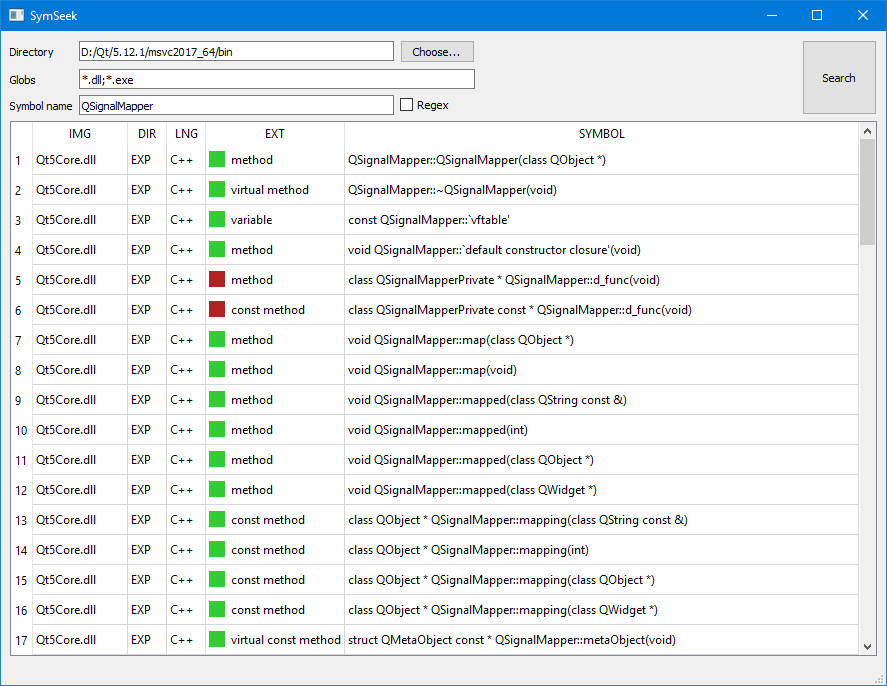
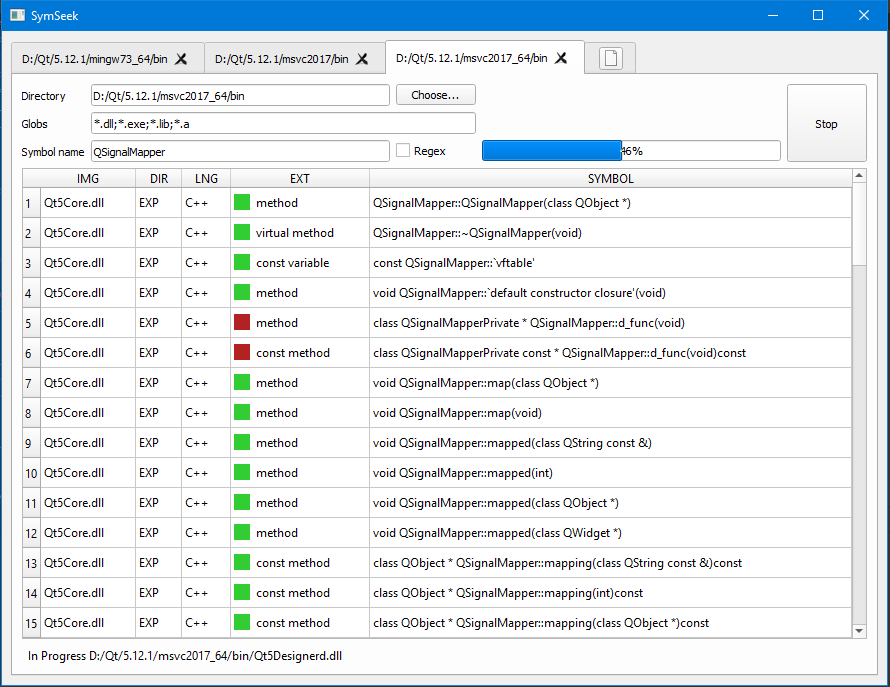
#3 Change workspaces' titles to mimic the directory being processed
Also update the screenshot.

Changed region(s): [[0.0, 0.0, 1.0, 1.0], [0.0, 0.0, 0.0913, 0.0306], [0.6697, 0.0612, 0.7001, 0.1224]]

diff --git a/SymSeek/src/MainWindow.cpp b/SymSeek/src/MainWindow.cpp
@@ -1,7 +1,6 @@
 #include "MainWindow.h"
 
 #include <QtCore/QSettings>
-
 #include <QtWidgets/QStyle>
 #include <QtWidgets/QTabBar>
 #include <QtWidgets/QToolButton>
@@ -45,12 +44,24 @@ MainWindow::~MainWindow()
 
 int MainWindow::addWorkspace()
 {
-    QPointer<Workspace> newTab{ new Workspace(m_ui->tabWidget) };
+    QPointer<Workspace> newWorkspace{ new Workspace(m_ui->tabWidget) };
     // Always insert before the last (plus) tab
     int index = m_ui->tabWidget->count() - 1;
     m_ui->tabWidget->insertTab(index,
-            newTab.data(), QStringLiteral("Workspace ") + QString::number(index + 1));
-    newTab->loadSettings(index);
+            newWorkspace.data(), QStringLiteral("Workspace ") + QString::number(index + 1));
+
+    // Update tab titles
+    connect(newWorkspace, &Workspace::titleChanged, /*context=*/this,
+        [this, newWorkspace](QString newTitle) {
+            // Index may have changed as the tabs are movable, so obtaining it again
+            int index = m_ui->tabWidget->indexOf(GUARD(newWorkspace));
+            Q_ASSERT(index != -1);
+            m_ui->tabWidget->setTabText(index, newTitle);
+            m_ui->tabWidget->setTabToolTip(index, newTitle);
+        }
+    );
+
+    newWorkspace->loadSettings(index);
     return index;
 }
 

diff --git a/SymSeek/src/Workspace.cpp b/SymSeek/src/Workspace.cpp
@@ -125,6 +125,7 @@ Workspace::Workspace(QWidget *parent)
     connect(m_ui->chbRegex, &QCheckBox::stateChanged, [this](int state) {
         m_ui->leSymbolName->setValidator(state == Qt::Checked ? m_regexValidator : nullptr);
     });
+    connect(m_ui->leDirectory, &QLineEdit::textChanged, this, &Workspace::titleChanged);
 }
 
 static void flashWidget(QWidget * widget)
@@ -248,7 +249,7 @@ void Workspace::loadSettings(uint index)
     QSettings settings;
     settings.beginGroup(guiGroupPrefix + QString::number(index));
 
-    m_ui->leDirectory->setText(settings.value(directorySetting).toString());
+    m_ui->leDirectory->setText(settings.value(directorySetting, QDir::currentPath()).toString());
     m_ui->leGlobs->setText(settings.value(globsSetting,
             QString{
 // TODO Get these globs from the available image parsers

diff --git a/SymSeek/src/Workspace.h b/SymSeek/src/Workspace.h
@@ -55,6 +55,9 @@ public:
     void loadSettings(uint index);
     void storeSettings(uint index) const;
 
+Q_SIGNALS:
+    void titleChanged(QString newTitle);
+
 private:
     void doSearch();
 
